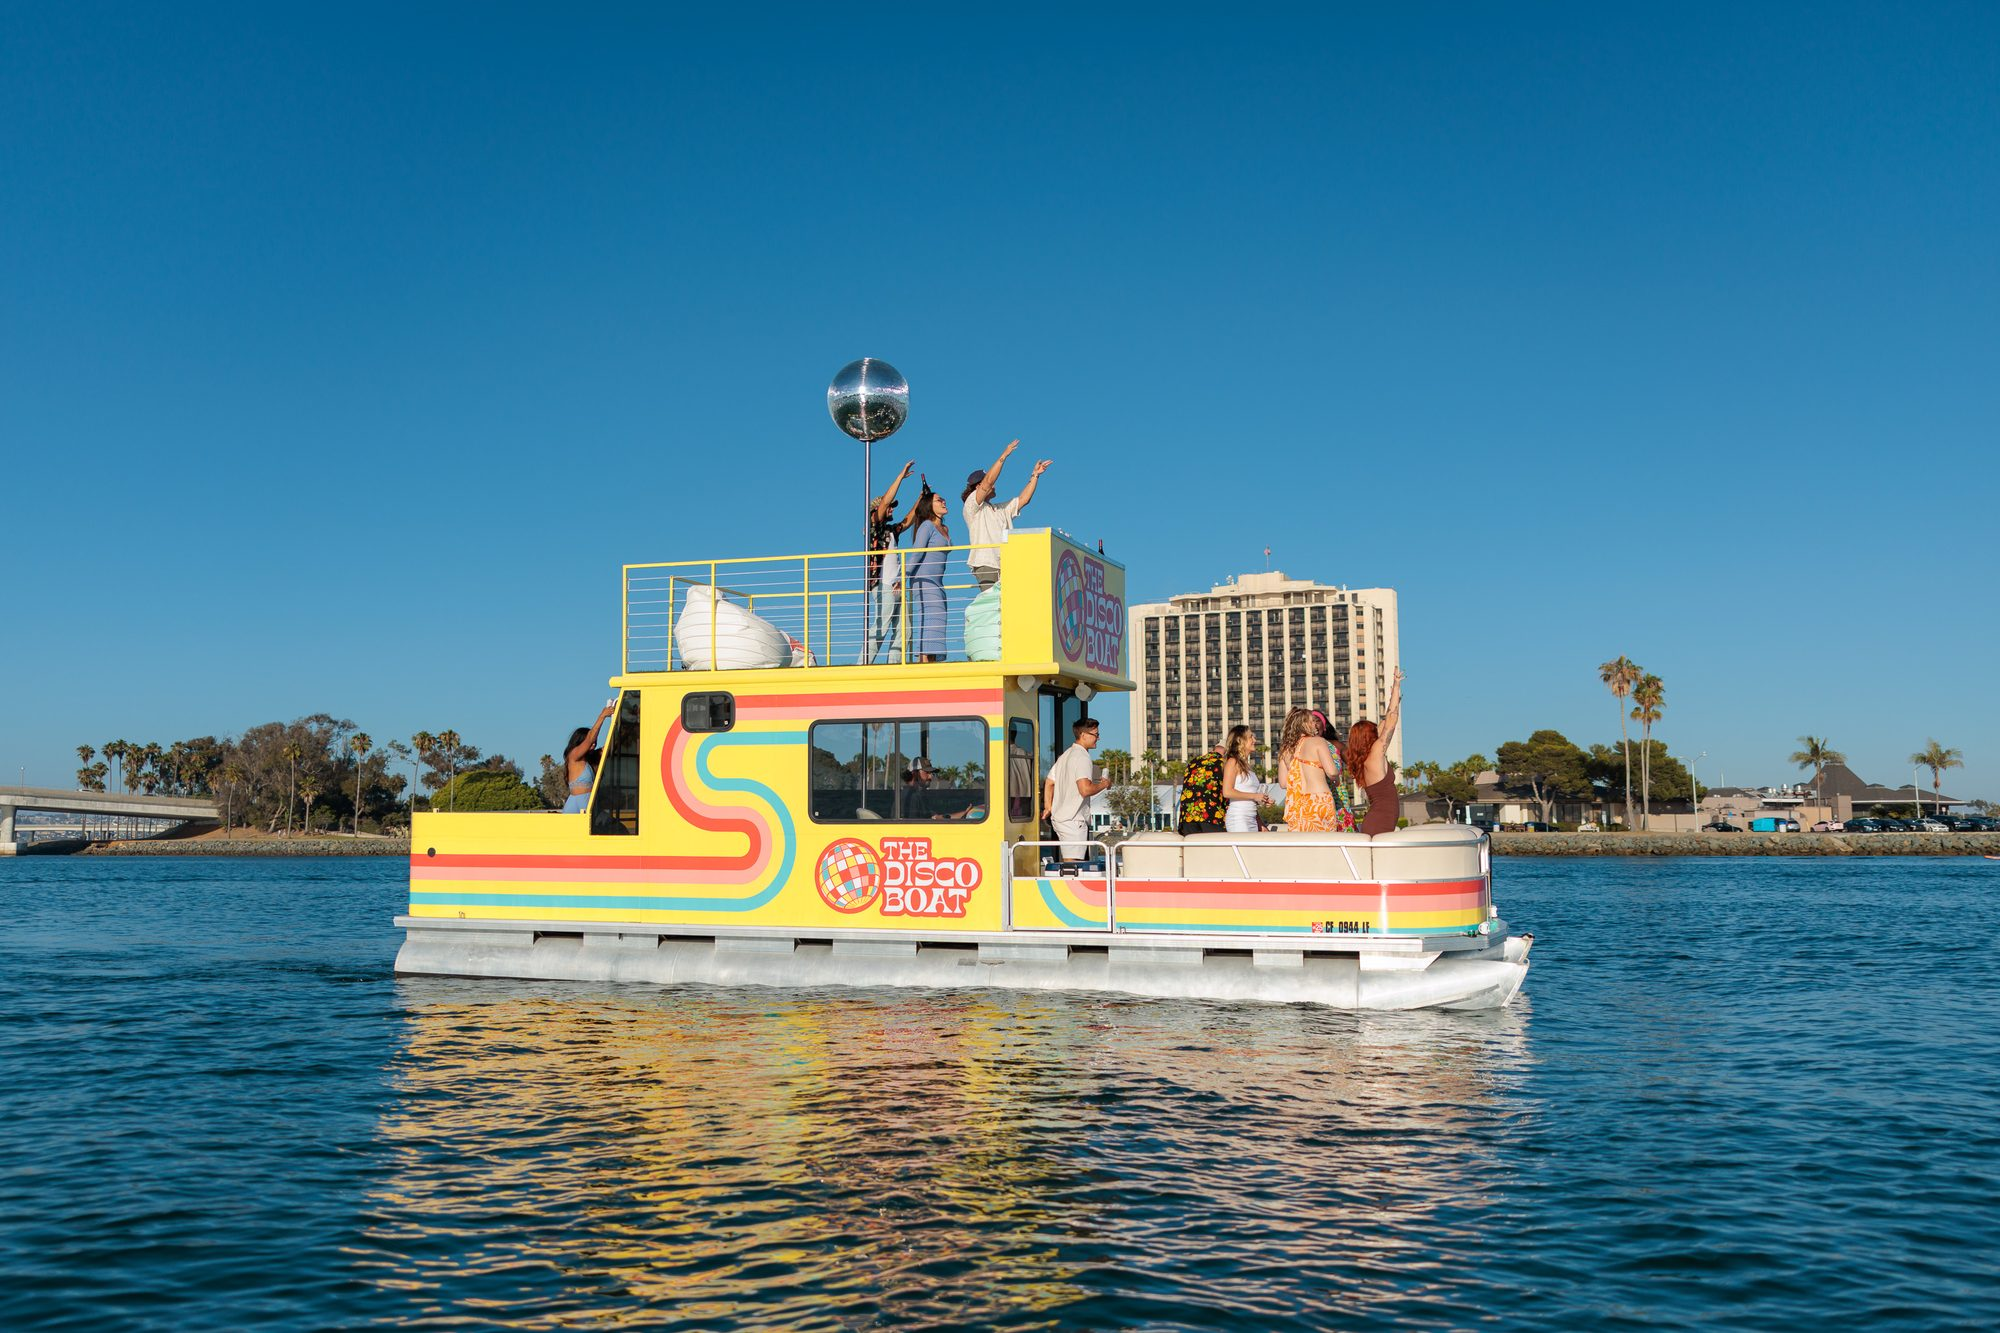
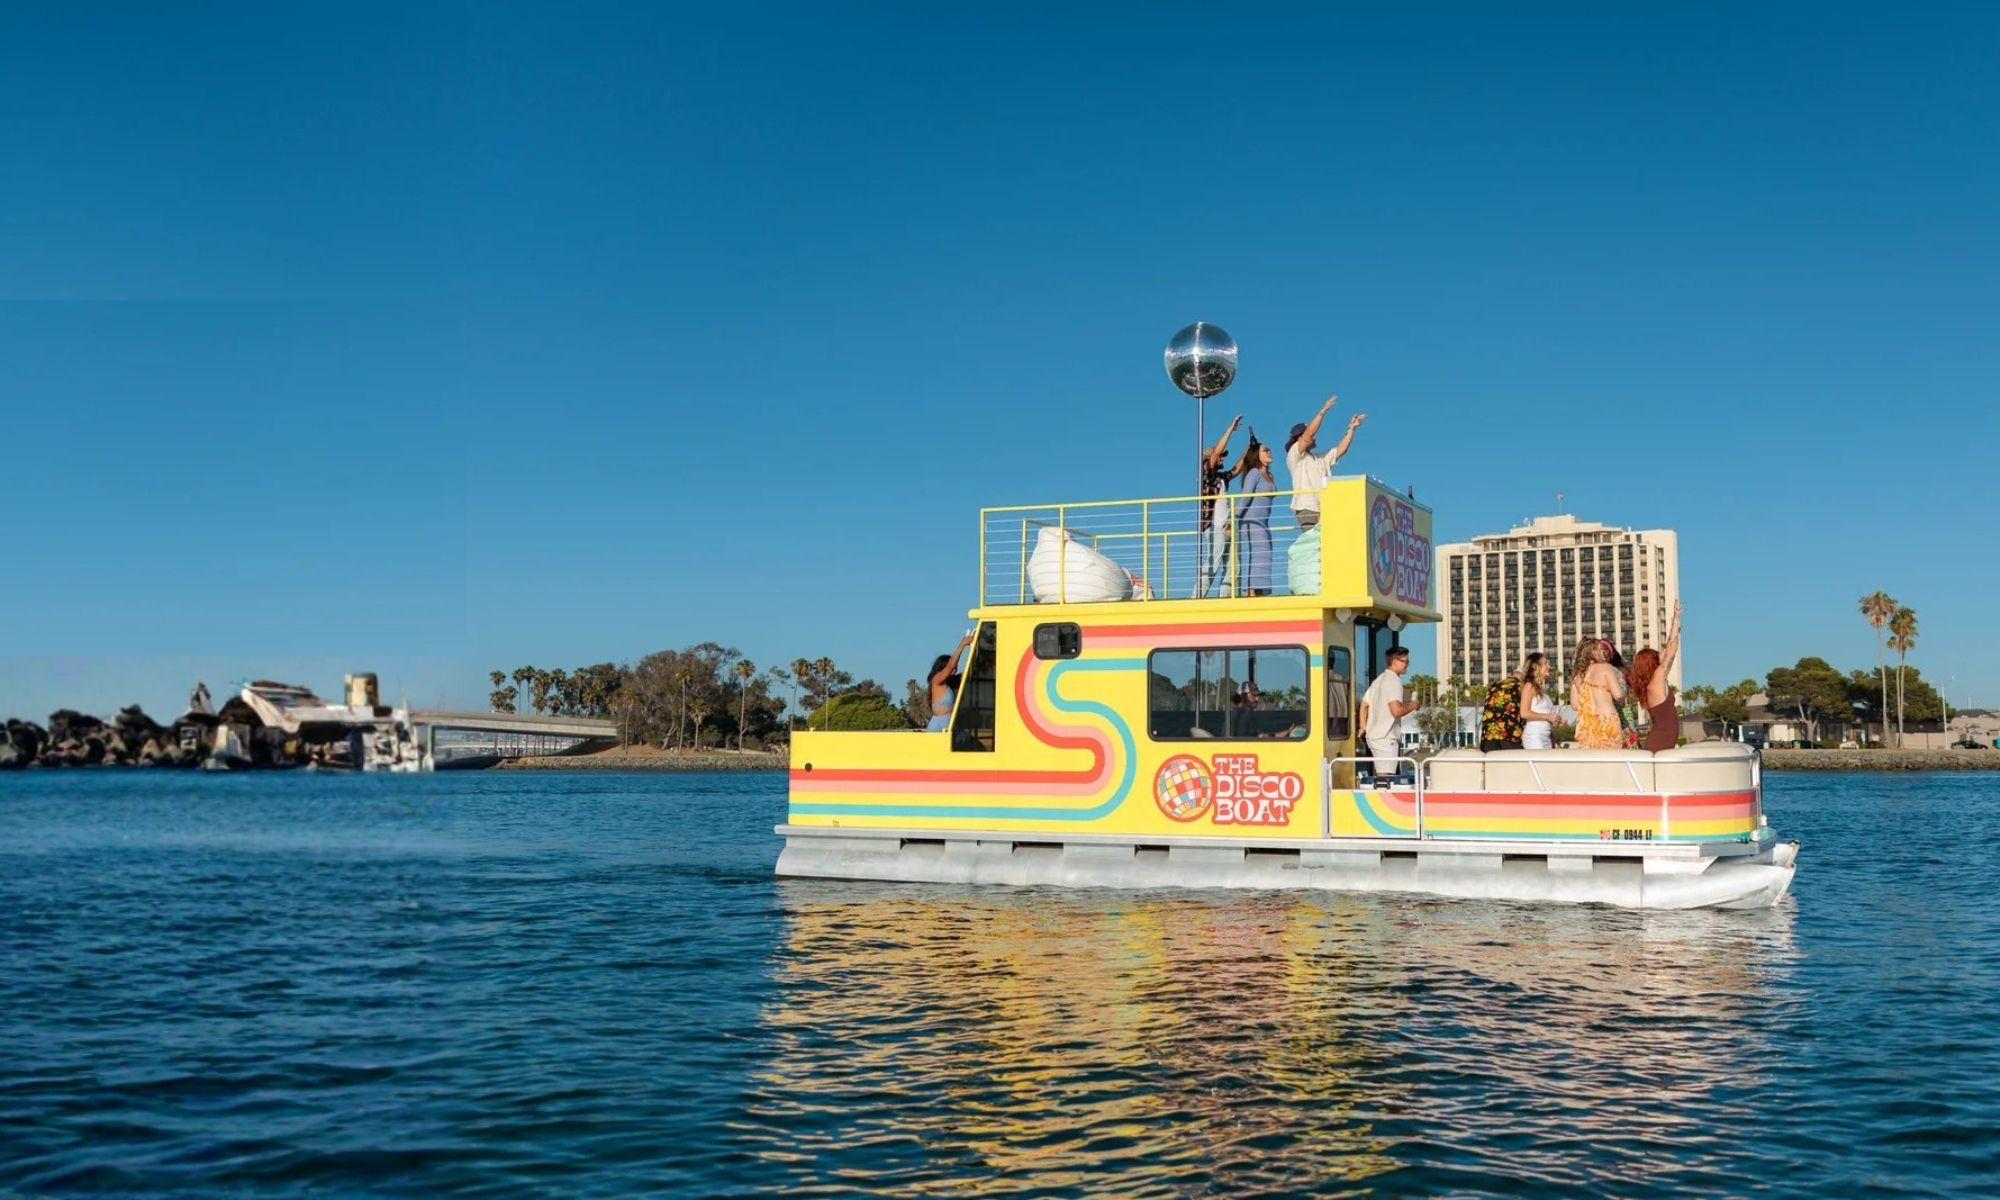
Disco Boat: new hero image + left-aligned text, boat on right

diff --git a/clients/boatr-marketing/previews/disco-boat-rental/index.html b/clients/boatr-marketing/previews/disco-boat-rental/index.html
@@ -282,15 +282,15 @@ nav {
   background-color: transparent;
   background-image: url('images/hero-photo.jpg');
   background-repeat: no-repeat;
-  background-position: center 55%;
+  background-position: right center;
   background-size: cover;
   overflow: hidden;
   padding-top: 84px; padding-bottom: 54px;
 }
-/* Subtle bottom-weighted dark gradient just to keep text legible where it overlaps the boat — no color tint */
+/* Left-side dark scrim so the white text reads cleanly; fades to clear on the right where the boat is */
 .hero::before {
   content: ''; position: absolute; inset: 0; z-index: 1;
-  background: linear-gradient(180deg, rgba(0,0,0,0.05) 0%, rgba(0,0,0,0.18) 60%, rgba(0,0,0,0.35) 100%);
+  background: linear-gradient(90deg, rgba(0,0,0,0.55) 0%, rgba(0,0,0,0.35) 35%, rgba(0,0,0,0.05) 65%, rgba(0,0,0,0) 100%);
   pointer-events: none;
 }
 .hero-inner { position: relative; z-index: 3; }
@@ -300,8 +300,10 @@ nav {
 .hero-inner {
   position: relative; z-index: 3;
   max-width: 1140px; margin: 0 auto; padding: 0 32px;
-  width: 100%; text-align: center;
+  width: 100%; text-align: left;
 }
+.hero-inner > * { max-width: 560px; }
+.hero-inner .hero-eyebrow { max-width: none; }
 .hero-eyebrow {
   display: inline-block;
   background: rgba(0,0,0,0.32);
@@ -313,18 +315,18 @@ nav {
 }
 .hero h1 {
   font-family: var(--fs); font-weight: 400;
-  font-size: clamp(48px, 8.5vw, 87px);
+  font-size: clamp(44px, 7vw, 76px);
   color: #fff; line-height: 1.0;
-  max-width: 1080px; margin: 0 auto 26px;
+  max-width: 560px; margin: 0 0 26px 0;
   text-shadow: 0 2px 14px rgba(0,0,0,0.35), 0 1px 2px rgba(0,0,0,0.25);
   letter-spacing: 0; -webkit-text-stroke: 0;
 }
 .hero h1 span {
   font-family: var(--fb); color: #fff; display: block;
-  font-size: clamp(20px, 2.4vw, 30px); font-weight: 400;
-  margin-top: 18px; line-height: 1.4em; letter-spacing: 0;
+  font-size: clamp(18px, 2vw, 24px); font-weight: 400;
+  margin: 18px 0 0 0; line-height: 1.4em; letter-spacing: 0;
   text-shadow: 0 1px 6px rgba(0,0,0,0.4); -webkit-text-stroke: 0;
-  max-width: 820px; margin-left: auto; margin-right: auto;
+  max-width: 560px;
 }
 .hero p.lede {
   font-family: var(--fb); font-size: clamp(17px, 1.5vw, 21px);
@@ -332,7 +334,7 @@ nav {
   max-width: 760px; margin: 0 auto 36px; line-height: 1.55;
   text-shadow: 0 1px 6px rgba(0,0,0,0.4);
 }
-.hero-ctas { display: flex; gap: 16px; flex-wrap: wrap; align-items: center; justify-content: center; }
+.hero-ctas { display: flex; gap: 16px; flex-wrap: wrap; align-items: center; justify-content: flex-start; }
 /* Primary CTA — matches the live site's teal button exactly */
 .btn-primary {
   background: var(--teal); color: #fff !important;
@@ -354,10 +356,11 @@ nav {
 }
 .btn-secondary:hover { background: var(--coral-d); }
 .hero-stats {
-  display: flex; gap: 36px; margin-top: 48px; flex-wrap: wrap; justify-content: center;
-  padding-top: 26px; max-width: 920px; margin-left: auto; margin-right: auto;
+  display: flex; gap: 28px 36px; margin-top: 36px; flex-wrap: wrap; justify-content: flex-start;
+  padding-top: 22px; max-width: 560px; margin-left: 0; margin-right: 0;
   border-top: 1px solid rgba(255,255,255,0.4);
 }
+.hs-item { align-items: flex-start; text-align: left; }
 .hs-item { display: flex; flex-direction: column; gap: 4px; align-items: center; }
 .hs-num {
   font-family: var(--fs); font-weight: 400; font-size: 36px;
@@ -902,8 +905,14 @@ footer {
   .brand-name small { font-size: 10px; }
   .btn-book { padding: 9px 14px; font-size: 12px; }
   .sec { padding: 56px 22px; }
-  .hero-inner { padding: 60px 22px 56px; }
-  .hero-stats { gap: 24px; }
+  .hero { background-position: center 60%; }
+  .hero::before { background: linear-gradient(180deg, rgba(0,0,0,0.35) 0%, rgba(0,0,0,0.45) 100%); }
+  .hero-inner { padding: 60px 22px 56px; text-align: center; }
+  .hero-inner > * { max-width: 100%; margin-left: auto; margin-right: auto; }
+  .hero h1, .hero h1 span { max-width: 100%; margin-left: auto; margin-right: auto; }
+  .hero-ctas { justify-content: center; }
+  .hero-stats { gap: 24px; justify-content: center; max-width: 100%; margin-left: auto; margin-right: auto; }
+  .hs-item { align-items: center; text-align: center; }
   .hs-num { font-size: 22px; }
   .about-grid, .loc-grid, .dest-grid, .fleet-intro { grid-template-columns: 1fr; gap: 36px; }
   .fleet-grid { grid-template-columns: 1fr 1fr; }